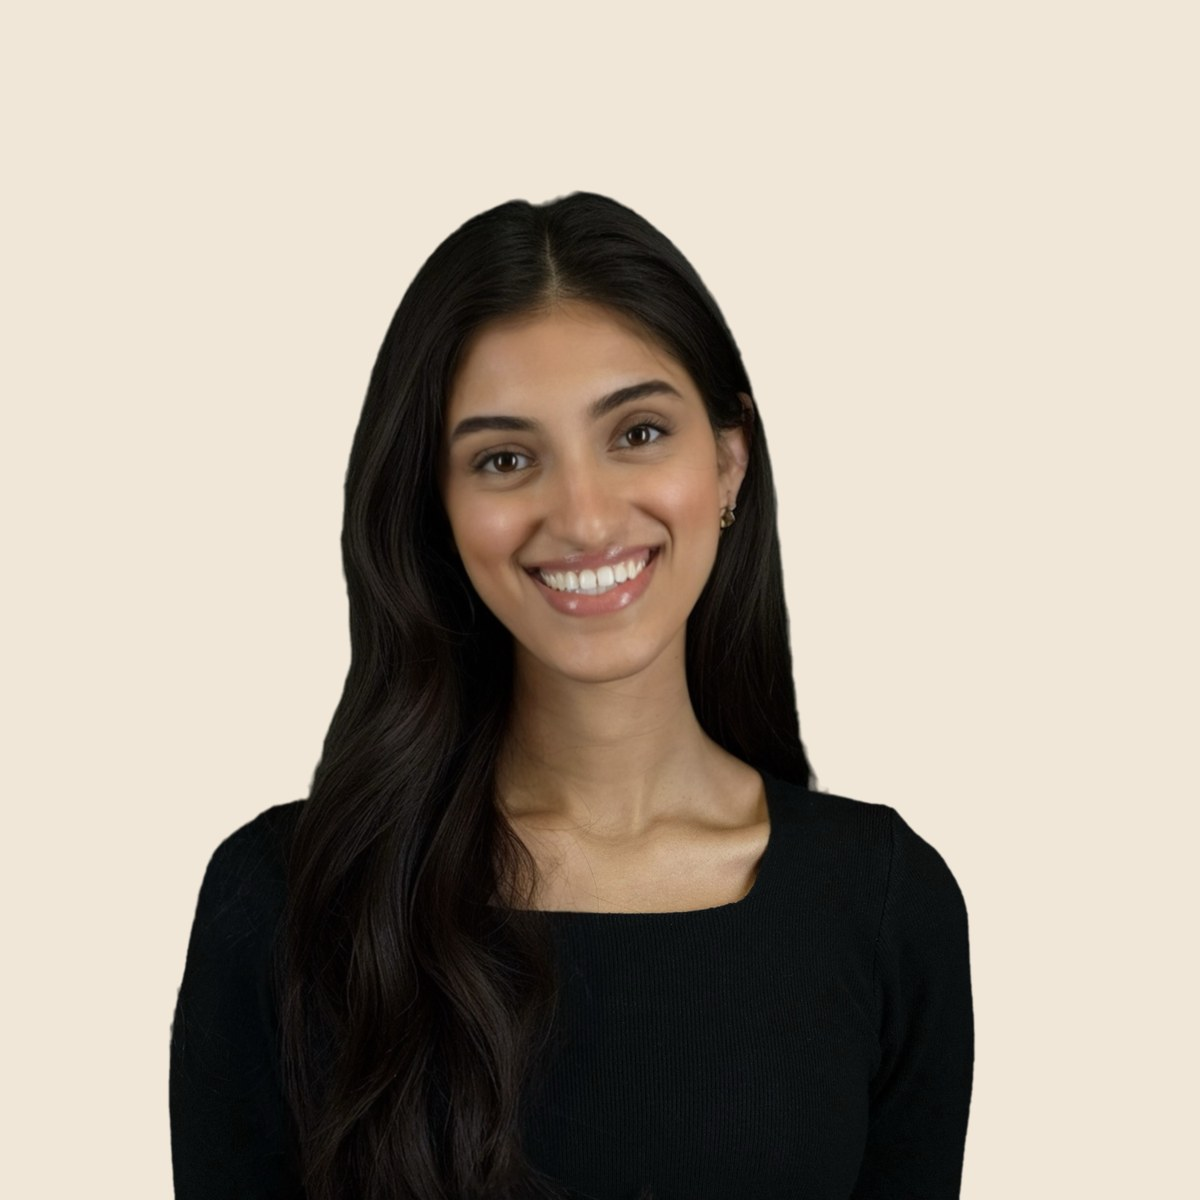
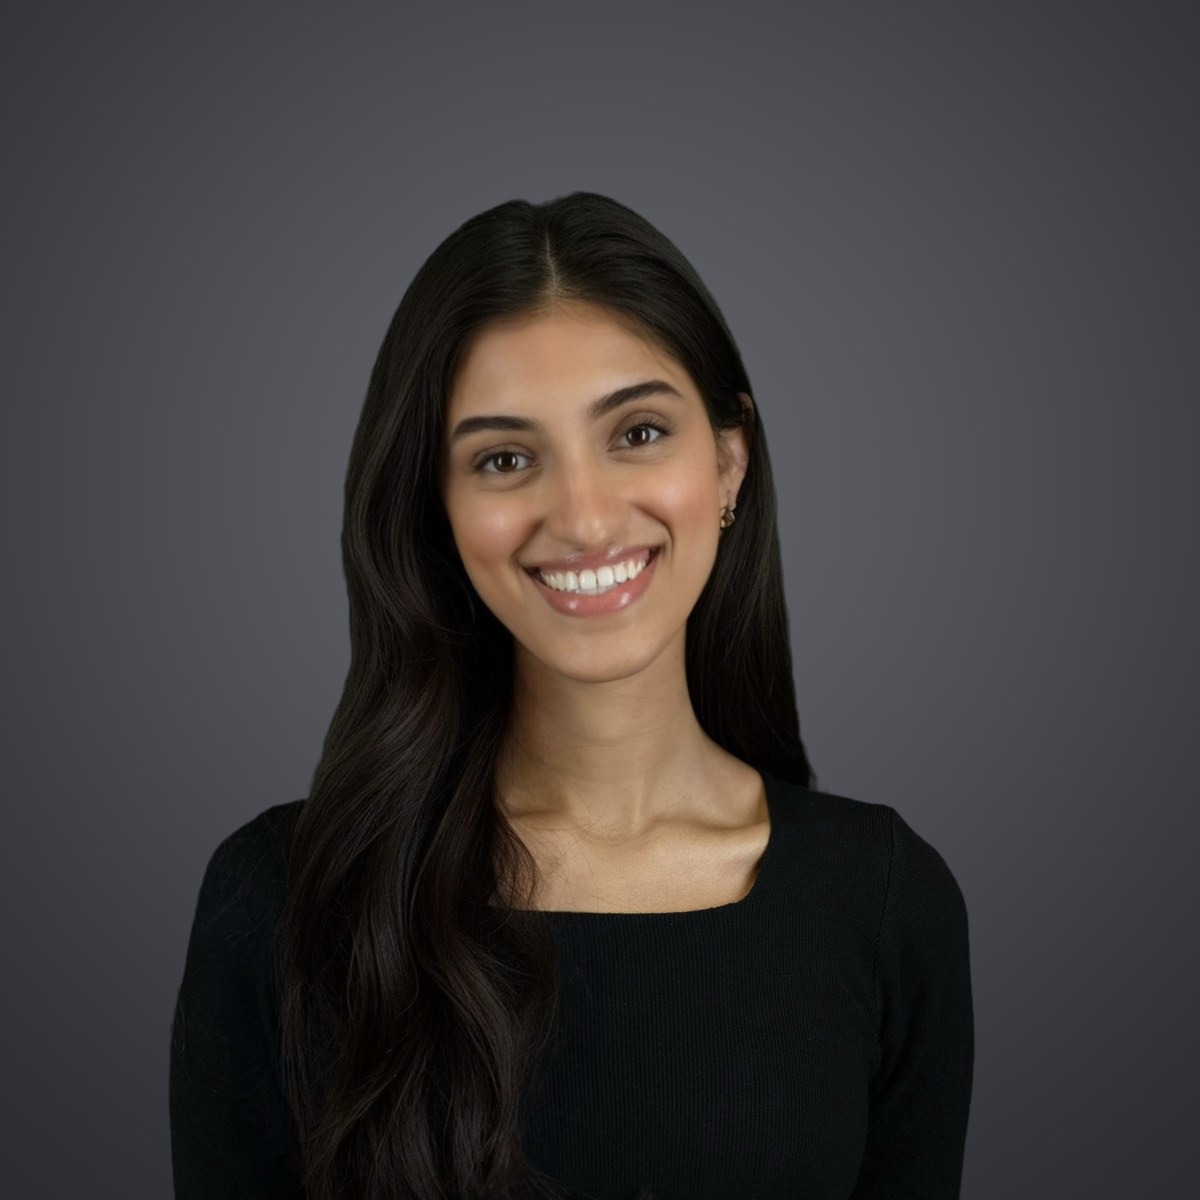
About photo: dark-gray gradient backdrop; move photo to left
- Re-key portrait onto a soft dark-gray radial gradient
- Swap About layout so the photo sits left of the text
- Bump cache-bust to v=7

diff --git a/index.html b/index.html
@@ -8,7 +8,7 @@
   <link rel="preconnect" href="https://fonts.googleapis.com" />
   <link rel="preconnect" href="https://fonts.gstatic.com" crossorigin />
   <link href="https://fonts.googleapis.com/css2?family=Figtree:ital,wght@0,300;0,400;0,500;0,600;0,700;0,800;1,400;1,500&display=swap" rel="stylesheet" />
-  <link rel="stylesheet" href="styles.css?v=6" />
+  <link rel="stylesheet" href="styles.css?v=7" />
 </head>
 <body>
   <!-- ================= Header ================= -->
@@ -283,6 +283,9 @@
 
     <!-- ================= About ================= -->
     <section id="about" class="about">
+      <div class="about__photo">
+        <img src="assets/about/saloni.jpg?v=2" alt="Saloni Kothari" loading="lazy" />
+      </div>
       <div class="about__text">
         <h2 class="eyebrow">About</h2>
         <div class="about__body">
@@ -297,9 +300,6 @@
             understand a problem well enough to act on it.
           </p>
         </div>
-      </div>
-      <div class="about__photo">
-        <img src="assets/about/saloni.jpg?v=1" alt="Saloni Kothari" loading="lazy" />
       </div>
     </section>
 
@@ -374,6 +374,6 @@
     </figure>
   </div>
 
-  <script src="script.js?v=6"></script>
+  <script src="script.js?v=7"></script>
 </body>
 </html>

diff --git a/styles.css b/styles.css
@@ -467,7 +467,7 @@ main {
 /* ---------- About ---------- */
 .about {
   display: grid;
-  grid-template-columns: 1.5fr 1fr;
+  grid-template-columns: 1fr 1.5fr;
   gap: clamp(2rem, 6vw, 4.5rem);
   align-items: center;
   padding: clamp(3.5rem, 9vw, 7rem) 0;
